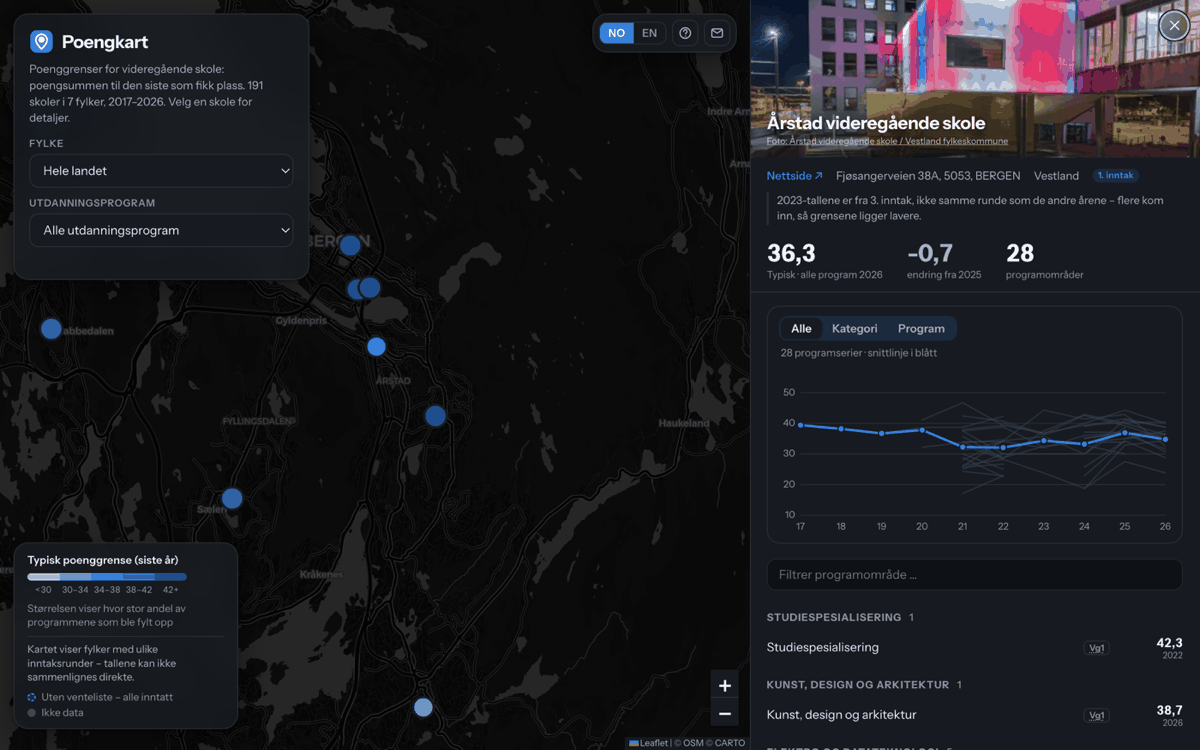
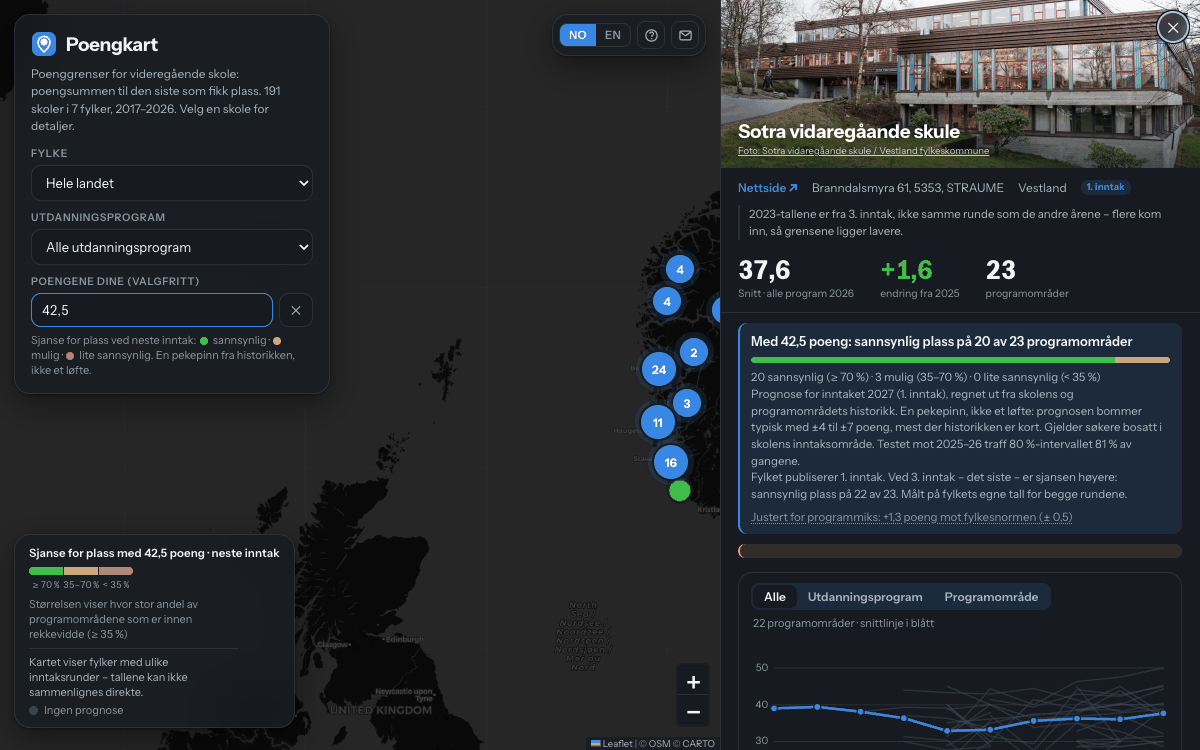
Refresh the README screenshots and its stale claims
Both images predated the official-vocabulary tabs, the points field and the
Oslo backfill. The map shot is current; the school shot now shows Sotra with
points entered — photo and credit, the chance banner, the round and
catchment notes, and the full 2017–2026 trend. Oslo's coverage row says
2017–2026, and the samples table description mentions the Grep code column.

diff --git a/README.md b/README.md
@@ -10,7 +10,7 @@ figures, up to ten years of history, in Norwegian and English.
 
 ![The map: 191 schools across southern and central Norway, clustered and coloured by admission threshold](docs/map.png)
 
-![A school's page: photo, typical threshold, ten years of trends, and every programme with its own figure](docs/school.png)
+![A school's page: photo, your chance of a place at the next intake, ten years of trends, and every programme with its own figure](docs/school.png)
 
 Type in your own points and the map recolours by your chance of a place at
 the next intake — green likely, amber possible, red unlikely — per school and
@@ -42,7 +42,7 @@ Python environment in `.venv`:
 
 `web/data/schools.json` is what the app reads, and it is free to use. The same
 data ships as SQLite and CSV in `data/` for anyone who would rather query it —
-`samples` carries every cell with its county and intake round, `forecasts` the
+`samples` carries every cell with its county, intake round and Grep code, `forecasts` the
 model's expected threshold, spread and fill probability per programme, and
 `data/model-backtest.csv` every walk-forward forecast the accuracy claims rest
 on.
@@ -65,7 +65,7 @@ Where the figures come from, and which intake round each county publishes:
 | [Akershus](https://afk.no/tjenester/skole-og-opplaring/opplaring-i-skole/soke-skoleplass/poenggrenser.222835.aspx) | HTML tables | 2025 | 1. and 2. |
 | [Buskerud](https://bfk.no/tjenester/skole-og-opplaring/opplaring-i-skole/soke-skoleplass/) | HTML matrix | 2024–2025 | not stated |
 | [Innlandet](https://innlandetfylke.no/) | PDF matrix | 2023–2025 | 2. |
-| [Oslo](https://www.oslo.kommune.no/skole-og-utdanning/videregaende-skole/soke-videregaende-skole/poengtabeller-for-videregaende-skoler-i-oslo/) | HTML + PDF | 2020–2026 | 1. |
+| [Oslo](https://www.oslo.kommune.no/skole-og-utdanning/videregaende-skole/soke-videregaende-skole/poengtabeller-for-videregaende-skoler-i-oslo/) | HTML + PDF, oldest years via school-site PDFs | 2017–2026 | 1. |
 | [Rogaland](https://www.vilbli.no/nb/rogaland/a/poengsum-og-karakterer-6) | PDF | 2018–2025 | 2. |
 | [Trøndelag](https://www.vilbli.no/nb/trondelag/a/poengsum-og-karakterer-6) | PDF, per intake region | 2025 | not stated |
 | [Vestland](https://www.vestlandfylke.no/utdanning-og-karriere/elev/soknad-inntak/test-poenggrenser/) | PDF | 2020–2026 | 1. and 3. |
